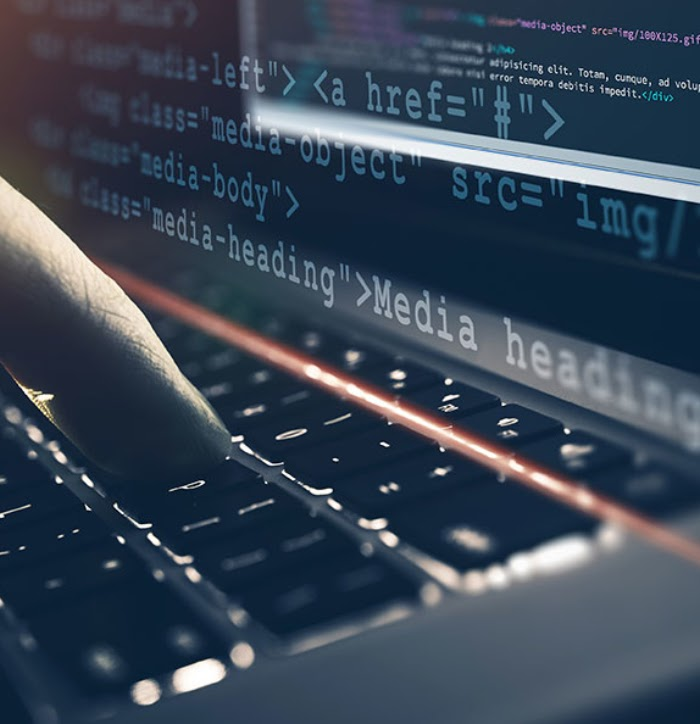
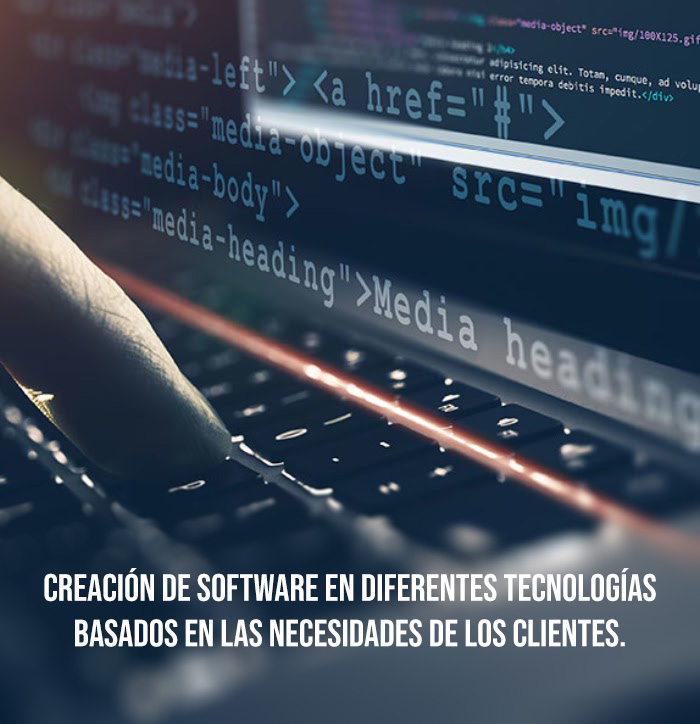
Fotos
cambio de el resto de fotos

diff --git a/index.html b/index.html
@@ -119,9 +119,9 @@
                                    </div>
                                    <div class="item">
                                         <img src="images/Desarrollo.jpg" alt="..." class="carousel-image-size">
-                                        <div class="carousel-caption">
+                                          <!--<div class="carousel-caption">
                                              <h3>Creación de software en diferentes tecnologías basados en las necesidades de los clientes.</h3>
-                                        </div>
+                                        </div> -->
                                    </div>
                                    <div class="item">
                                         <img src="images/Desing.jpg" alt="..." class="carousel-image-size">
@@ -131,9 +131,9 @@
                                    </div>
                                    <div class="item">
                                         <img src="images/soporte.jpg" alt="..." class="carousel-image-size">
-                                        <div class="carousel-caption">
+                                        <!--<div class="carousel-caption">
                                              <h3 style="color: black">Brindamos soporte técnico, para solucionar cualquier problema que se pueda presentar con el funcionamiento de nuestros productos.</h3>
-                                        </div>
+                                        </div>-->
                                    </div>
                               </div>
 
